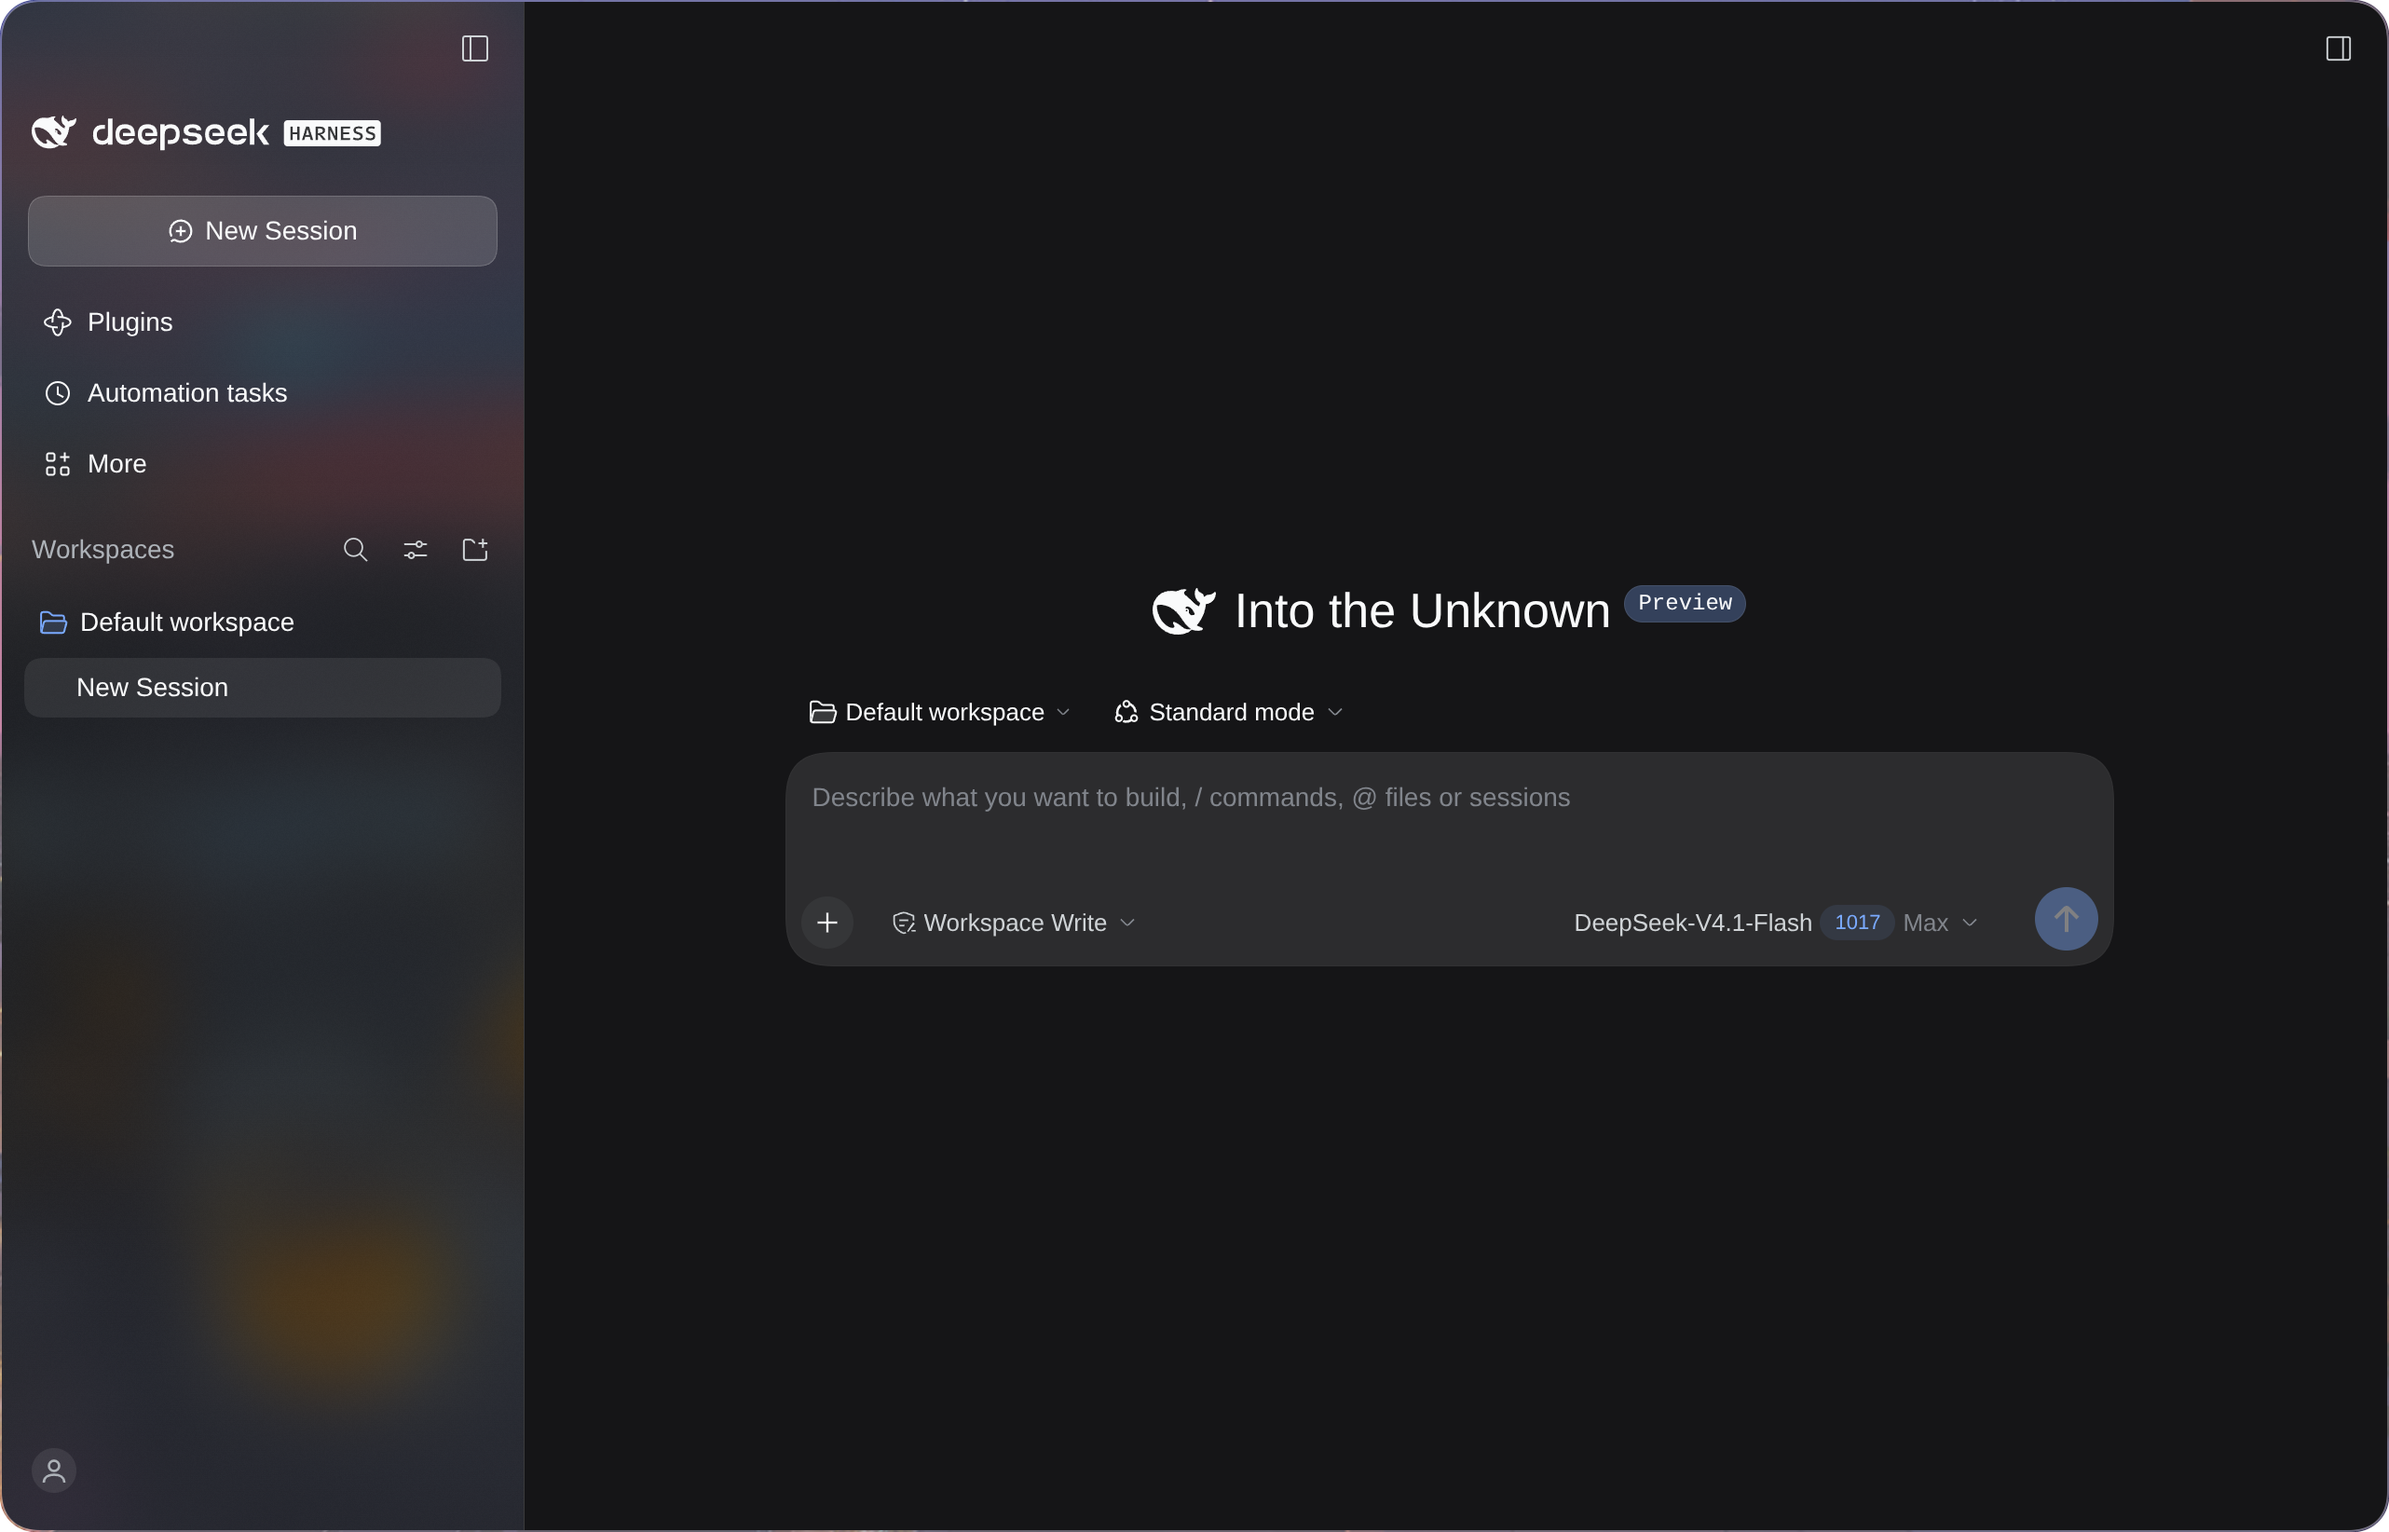
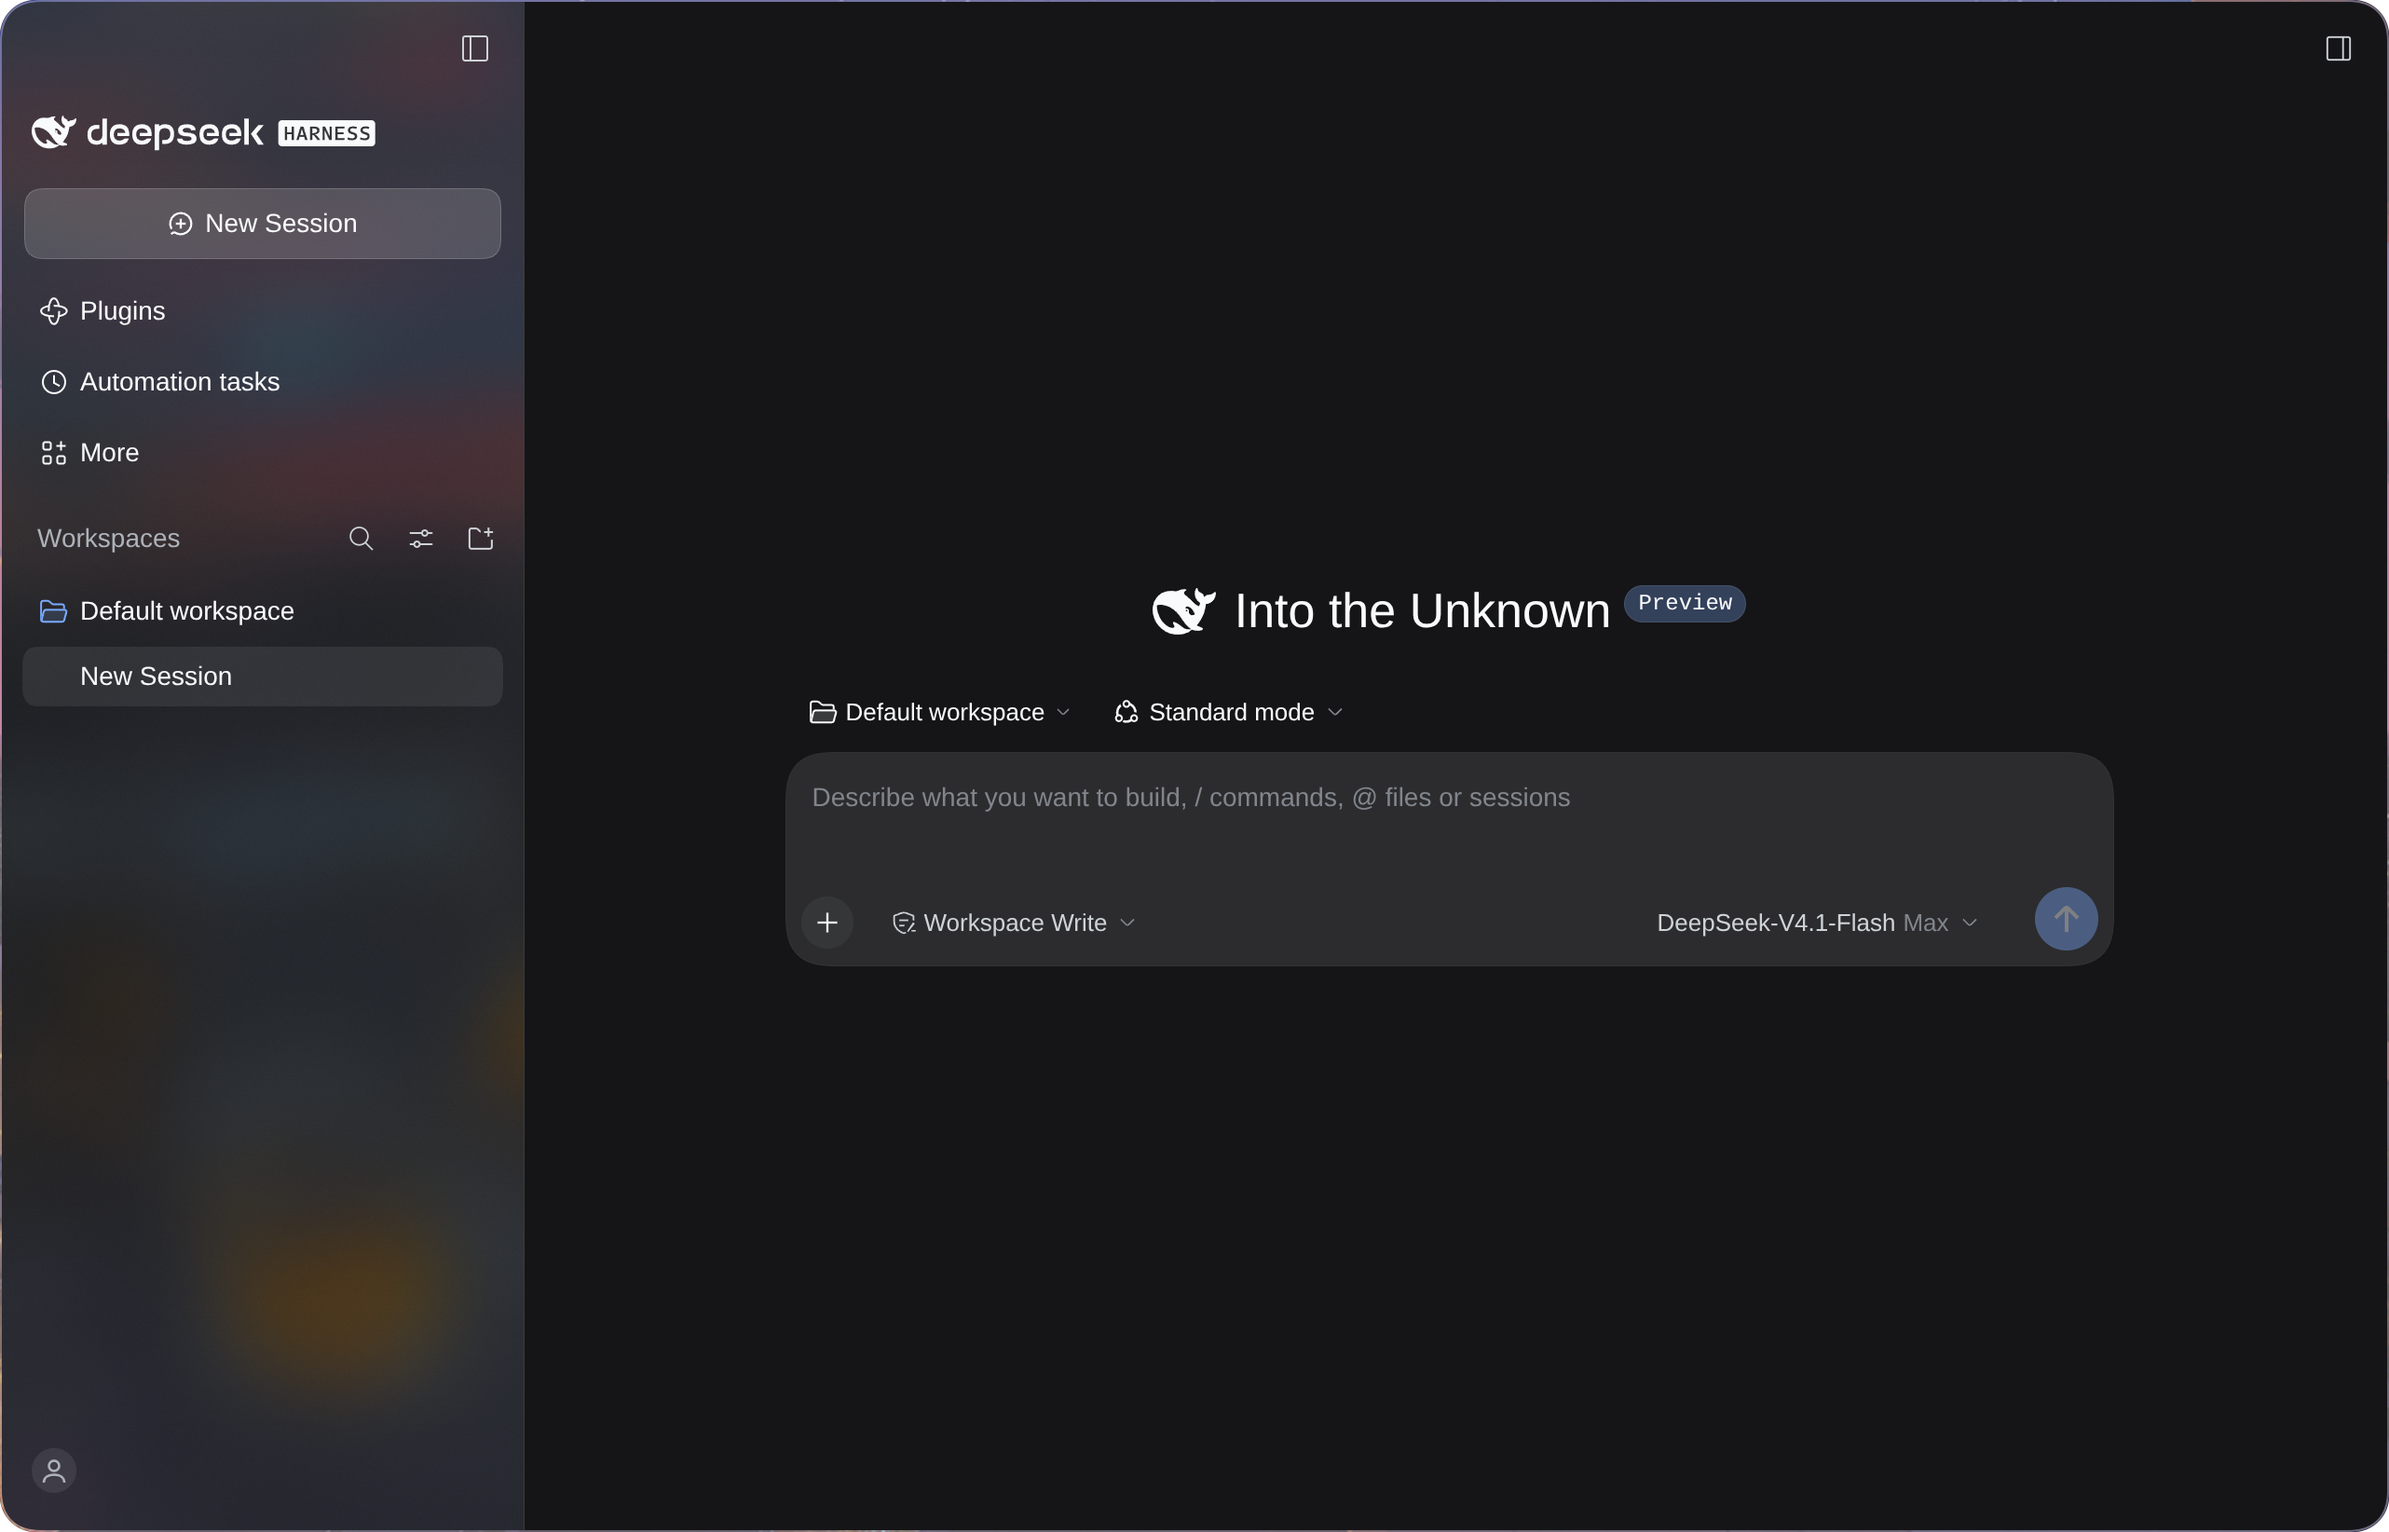
sync: 上游 0.2.2-alpha.3（12 个补丁重生，0006 并入官方品牌）
- 基线 `dsh-v0.2.2-alpha.3`（`05b1cae8`），上游这版跨 462 个提交、2315 个路径
- 17 个补丁里 12 个重生；`0003`/`0004`/`0010`/`0011`/`0012` 逐字节未变
- `0018` 在 `AppFrame.tsx` 三处冲突：按上游新加的窄屏抽屉重排
  `collapsedWidth` / leading-seat 注释 / `leadingMounted`
- `0006` 并入品牌层（4 个文件）：`local` profile 补 `DSH_CLIENT_TITLE`、
  品牌守卫改成「没选 profile 才跳过」，未签名包因此仍用官方 wordmark 与
  `DeepSeek Harness` 标题；构建记录保持 `local`
- `0013` 附带一条测试改动：Linux 托盘会在 refresh 时重建托盘菜单，
  上游新测试的「最后一次 buildFromTemplate 是应用菜单」不再成立
- README 三张界面图更新（普通 / 无边框 KDE，玻璃 Hyprland），中英同步

Verified: 真源码包按序 `patch -Np1` 17/17；84 个触及文件与三路合并树逐字节一致；`makepkg --verifysource` 19 项通过；`build.sh --all` 一次出三格式；`verify.sh --runtime` 46 通过 / 0 失败 / 1 跳过；上游桌面单测 2115 通过 / 0 失败 / 63 跳过

diff --git a/patches/README.md b/patches/README.md
@@ -203,7 +203,7 @@ controller 重写（+206/−49），`cordis-client-runner` 的 slot 目录加了
 | `0003-electron-builder-linux-configuration.patch` | `electron-builder-config.mjs` | Linux 关闭 asar；显式 `executableName`；Linux 不嵌入强制更新策略；Linux 的打包格式与包元数据来自发布设置（见 `0011`）；显式钉住 deb/rpm 的 `packageName` / `packageCategory` 与 `linux.synopsis`；用 `appImage.executableArgs: []` 去掉 legacy 工具集写死的 `--no-sandbox`；Linux 图标显式指定为 SVG —— 单个 PNG 文件会被 electron-builder **原样按自身像素尺寸**装进 `hicolor/1024x1024/apps`，而多个发行版的 `hicolor/index.theme` 并不声明该目录（Arch 就没有），图标会解析不到；SVG 落到 `hicolor/scalable/apps`，所有发行版都声明 |
 | `0004-prepare-target-electron-distribution.patch` | `prepare-dsh.ts`、`prepare-runtime.ts` | Electron 分发路径按 target 推导，不再假设「非 mac 即 win32」；打包期 `pnpm install` / 运行时冒烟改用 Host 运行时；`versions.json.node` 记为 payload 实际运行的 Node 版本；Linux 上整块跳过 rc.2 新增的 `prepare:cli`（见「注意」） |
 | `0005-desktop-linux-release-settings.patch` | `desktop-package-environment.{mjs,d.mts}`、`desktop-toolchain-preflight.ts`、`.gitignore`、`.env.linux.example`、`tests/desktop-package-environment.spec.ts` | 支持 `.env.linux`；Linux 不套用 Windows/macOS 专属设置；Linux 不要求策略 origin；修掉 `win32 ? … : macOS` 的隐含假设；Linux 文件白名单加 `MAINTAINER`/`HOMEPAGE`（并从环境里剥掉，保证发布设置只由文件拥有）；打了 rpm 才预检 `rpmbuild` |
-| `0006-desktop-package-linux-scripts.patch` | `apps/desktop/package.json` | `package:linux:x64` / `package:linux:x64:dir` |
+| `0006-desktop-package-linux-scripts.patch` | `apps/desktop/package.json`、`scripts/client-build-environment.ts` 与其单测、`packages/client/ui-brand-official/src/client/index.ts` 与其单测 | `package:linux:x64` / `package:linux:x64:dir`；Linux 未签名包的官方品牌（见 2026-11-03 一节） |
 | `0007-tests-linux-x64-supported.patch` | 3 个 `tests/*.spec.ts` | 把「断言 Linux 抛错」改成「断言 Linux 受支持」 |
 
 ## 让 Host 跑在真 Node 上（0008–0010）
@@ -229,7 +229,7 @@ controller 重写（+206/−49），`cordis-client-runner` 的 slot 目录加了
 
 | 补丁 | 覆盖文件 | 内容 |
 |---|---|---|
-| `0013-desktop-linux-tray.patch` | `src/main.ts`、`src/tray.ts`、`src/background-notice.ts`、`scripts/electron-builder-config.mjs`、`scripts/render-tray-icon.ts` | 托盘的创建条件从只认 `win32` 放宽到 `win32 \|\| linux`；Linux 的托盘图是 `resources/tray-linux.png`（单张 PNG，托盘宿主自己缩放到面板；**用应用图标自身的留白，不做 Windows 那 20% 放大**，见「注意」）；首次关窗的一次性提示同样覆盖 Linux —— 它的文案本来就是「可在系统托盘中重新打开窗口」，在 Linux 上这句话只有有了托盘才成立；渲染器除 ICO 之外也输出那张 PNG；electron-builder 的 Linux `extraResources` 把它带进产物的 `resources/` |
+| `0013-desktop-linux-tray.patch` | `src/main.ts`、`src/tray.ts`、`src/background-notice.ts`、`scripts/electron-builder-config.mjs`、`scripts/render-tray-icon.ts`、`tests/main-startup.spec.ts`（只改一条断言，见 2026-11-03 一节） | 托盘的创建条件从只认 `win32` 放宽到 `win32 \|\| linux`；Linux 的托盘图是 `resources/tray-linux.png`（单张 PNG，托盘宿主自己缩放到面板；**用应用图标自身的留白，不做 Windows 那 20% 放大**，见「注意」）；首次关窗的一次性提示同样覆盖 Linux —— 它的文案本来就是「可在系统托盘中重新打开窗口」，在 Linux 上这句话只有有了托盘才成立；渲染器除 ICO 之外也输出那张 PNG；electron-builder 的 Linux `extraResources` 把它带进产物的 `resources/` |
 托盘 PNG 是二进制，`patches/` 装不下：makepkg 用的是 GNU patch，它不支持 git 的二进制补丁。
 所以这张图作为普通本地 `source` 走，仓库里存在 `assets/tray-linux.png`，由两条路径各自放进
 `apps/desktop/resources/`：PKGBUILD 的 `prepare()`（`makepkg` 路线）和 `scripts/apply-patches.sh`
@@ -527,3 +527,30 @@ arm64 目标折进现有补丁，不新增编号；文件名保留 `-x64` 的历
 - 验证（2026-11-01）：这五个补丁在干净 worktree 里按序 `git apply` 通过，与补丁态工作树逐文件
   `cmp` 零差异；`desktop-build-paths` / `desktop-auto-update-environment` / `package-target`
   三个 spec 共 48 个用例通过。
+
+## 2026-11-03：0.2.2-alpha.3
+
+基线 `dsh-v0.2.2-alpha.3`（`05b1cae8`）。上游这版跨 462 个提交、2315 个路径；17 个补丁里有 8 个的落点被上游动过（80 个被打补丁的文件里 14 个），12 个补丁因此重生、5 个（0003 / 0004 / 0010 / 0011 / 0012）逐字节没变。
+
+- **`0018` 在 `AppFrame.tsx` 有三处冲突**：上游给侧栏加了窄屏抽屉（`drawer` 与 `SIDEBAR_DRAWER_BREAKPOINT`），正好压在玻璃模式的布局判断上。裁定：
+
+  | 位置 | 裁定 |
+  |---|---|
+  | `collapsedWidth` | `drawer \|\| darwin \|\| linuxGlass \|\| windowsTitlebar ? 0 : SIDEBAR_COLLAPSED` |
+  | leading-seat 注释 | 保留 Linux 那段说明，接在上游新注释之后 |
+  | `leadingMounted` | `drawer \|\| (darwin \|\| linuxGlass) && sidebarCollapsed` |
+
+  `SidebarRoot.tsx` 的 `drawer` 判断与 `0018` 的 `stripDesktop` 并存：玻璃模式仍然把开关放在侧栏顶部、收起后交给 frame 的 `shell.leading`。其余九个客户端文件文本合并干净。
+
+- **`0006` 并入品牌层**（4 个文件；补丁名不变）。起因：`0006` 的 `package:linux:*` 脚本让 Linux 一律走 `--unsigned`，而上游 0.2.2-alpha.2 的 `091d6ed` 让未签名包改用 `build --profile local`，于是侧栏变成「DSH 本地构建 + 版本/提交徽标」、窗口标题也是本地构建字样。改法与边界：
+
+  - `scripts/client-build-environment.ts`：`local` profile 的公开环境补 `DSH_CLIENT_TITLE`（复用 `OFFICIAL_CLIENT_BUILD_ENVIRONMENT` 里的常量）。local 分支本来只给 commit / version / dirty，所以光在环境变量里传 title 进不去客户端。
+  - `packages/client/ui-brand-official/src/client/index.ts`：守卫从「不是 official 就返回」改成「**没有**选 profile 才返回」——未选 profile 的是纯 web 构建，仍留空。
+  - **构建记录仍是 `DSH_CLIENT_BUILD_PROFILE: local`**：只改显示层，不让记录冒充 official；`pack-local-packages` 与打包记录的配对校验因此一行未动。
+  - 上游两张单测同步改：`client-build-environment.client.spec.ts` 里 local 的期望加 title；`browser-plugin.client.spec.tsx` 把「profile 非 official 时槽位为空」拆成两条（local 时注册、未选 profile 时为空）。
+
+- **`0013` 附带一处测试改动**：上游 alpha.3 新增的 `groups localized DevTools before quit` 断言「最后一次 `Menu.buildFromTemplate` 是应用菜单」，而 Linux 的托盘会在 `refreshApplicationMenu()` 里顺带重建托盘菜单，`lastCall` 于是是托盘菜单。改成取「最后一个首项带 `submenu` 的构建」，并在原地注明原因。
+
+- **`apply-patches.sh --check` 对 `0017` 必然失败**，旧补丁同样：它逐补丁对空树试打，而 `0017` 的上下文含 `0008` 新增的行（见开头那条例外）。对应 CI 的是顺序 `git apply`，makepkg 那侧是 `patch -Np1`。
+
+- 验证（2026-11-03）：17 个补丁在真源码包上按序 `patch -Np1` 全过，84 个触及文件与三路合并树逐字节一致；`makepkg --verifysource` 19 项通过；`build.sh --all` 一次出三格式；`verify.sh --runtime` 46 通过 / 0 失败；上游桌面单测 2115 通过 / 0 失败 / 63 跳过。

diff --git a/README.en.md b/README.en.md
@@ -18,6 +18,8 @@ actually been tested.
 
 ![The DeepSeek Harness desktop interface in normal mode (KDE)](docs/screenshot.png)
 
+![The DeepSeek Harness desktop interface in frameless mode (KDE)](docs/screenshot-frameless.png)
+
 ![The DeepSeek Harness desktop interface in glass mode (Hyprland)](docs/screenshot-glass.png)
 
 ## What this project produces
